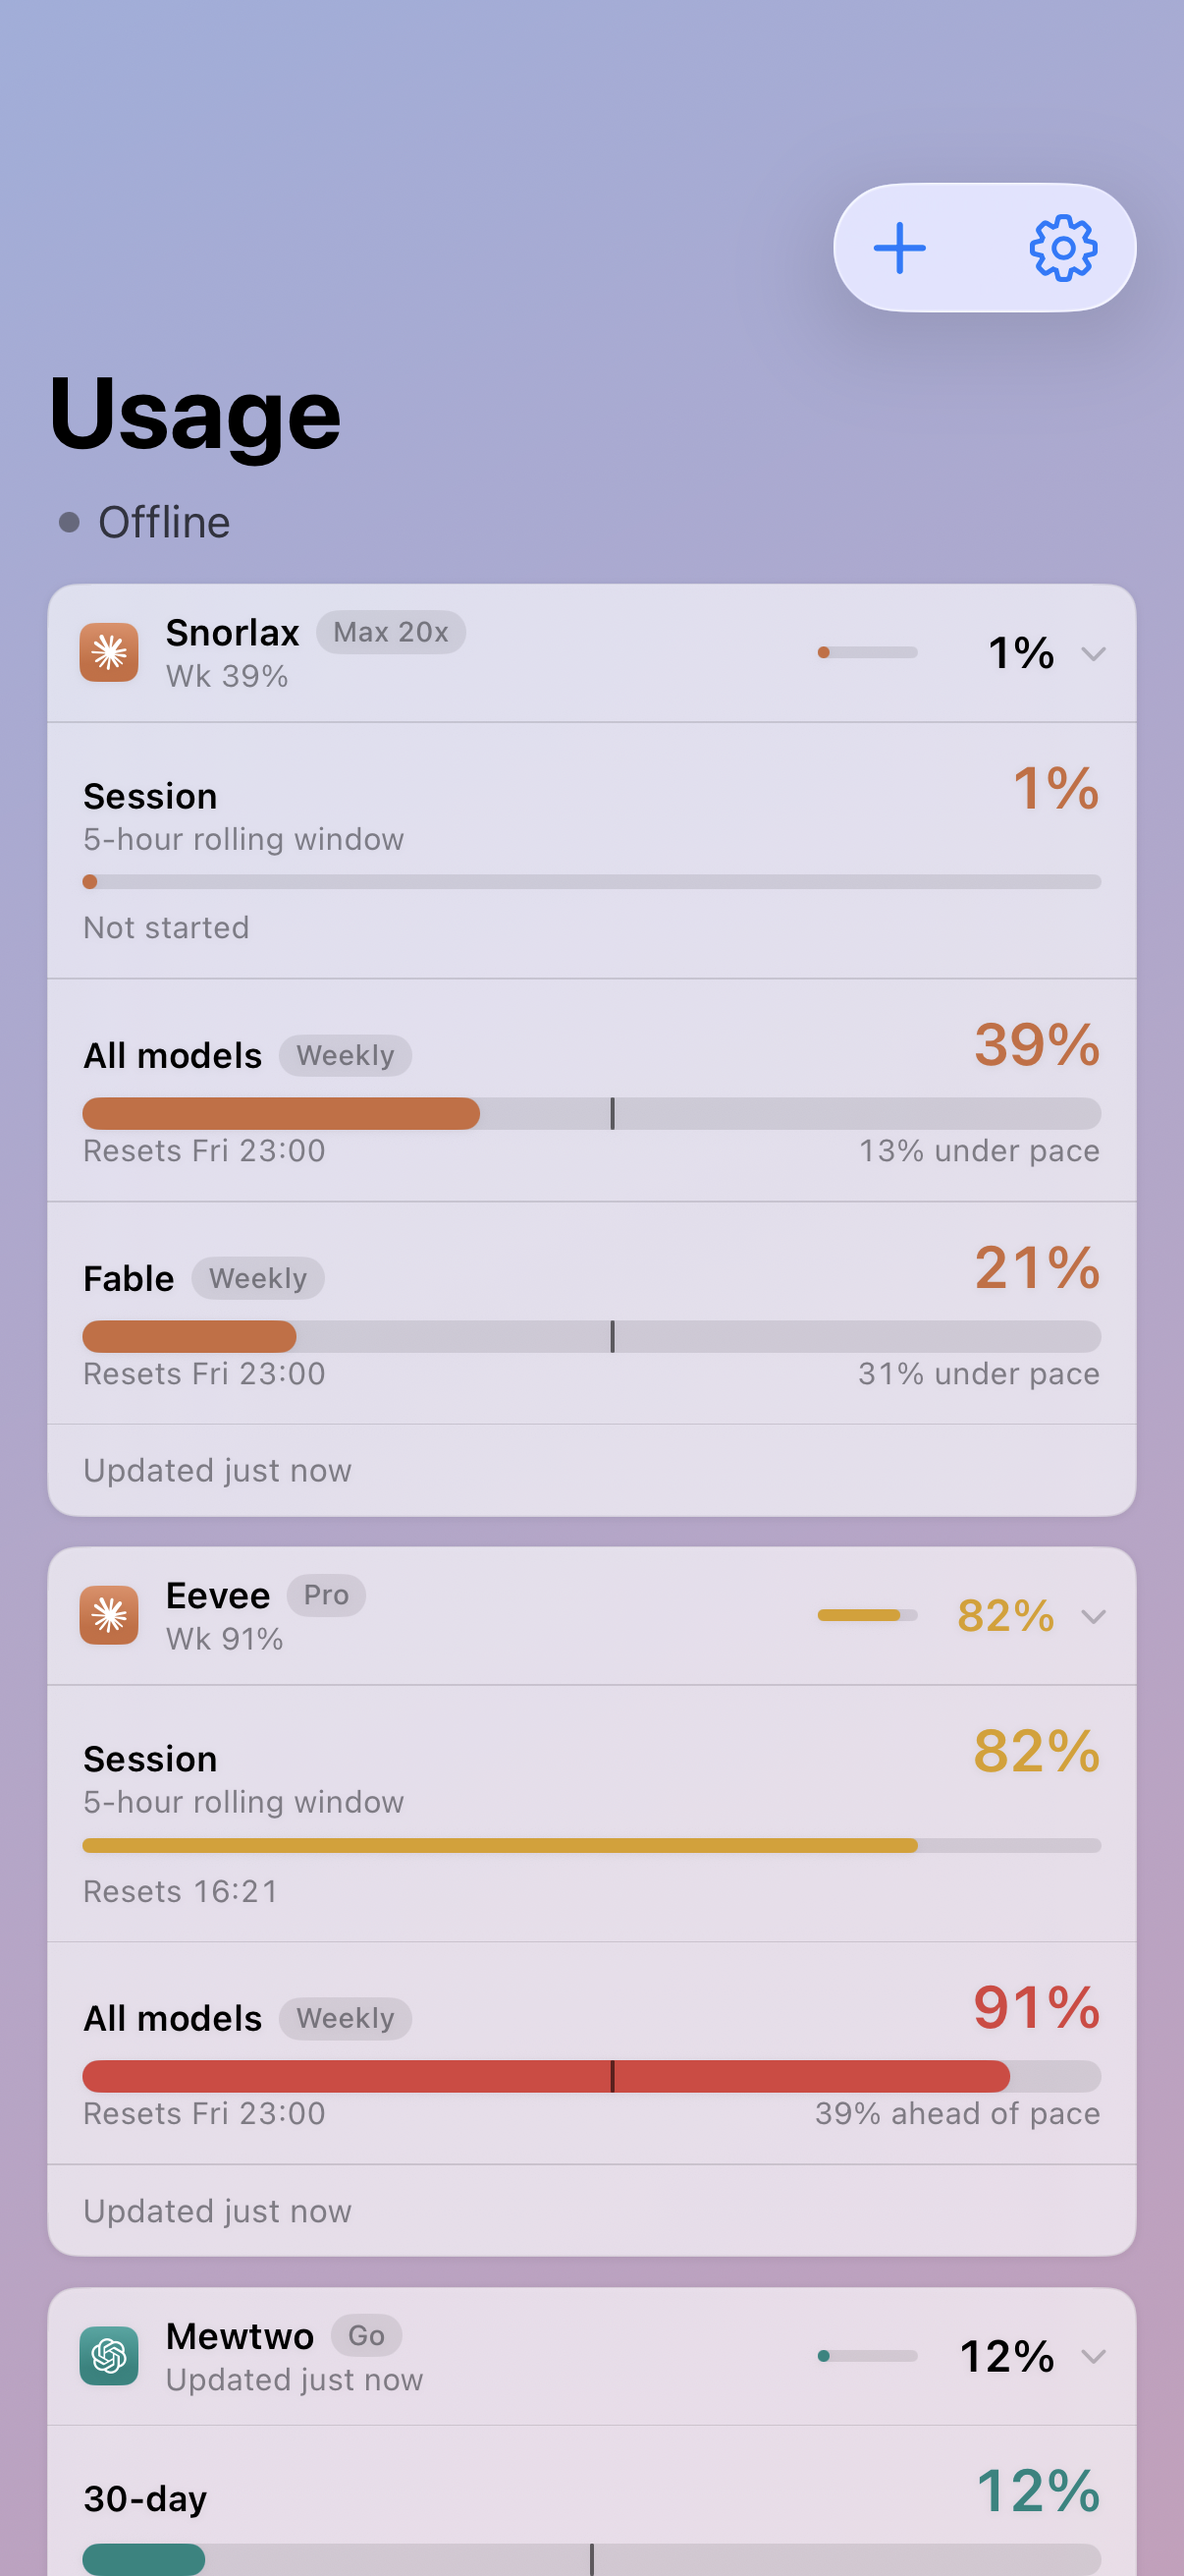
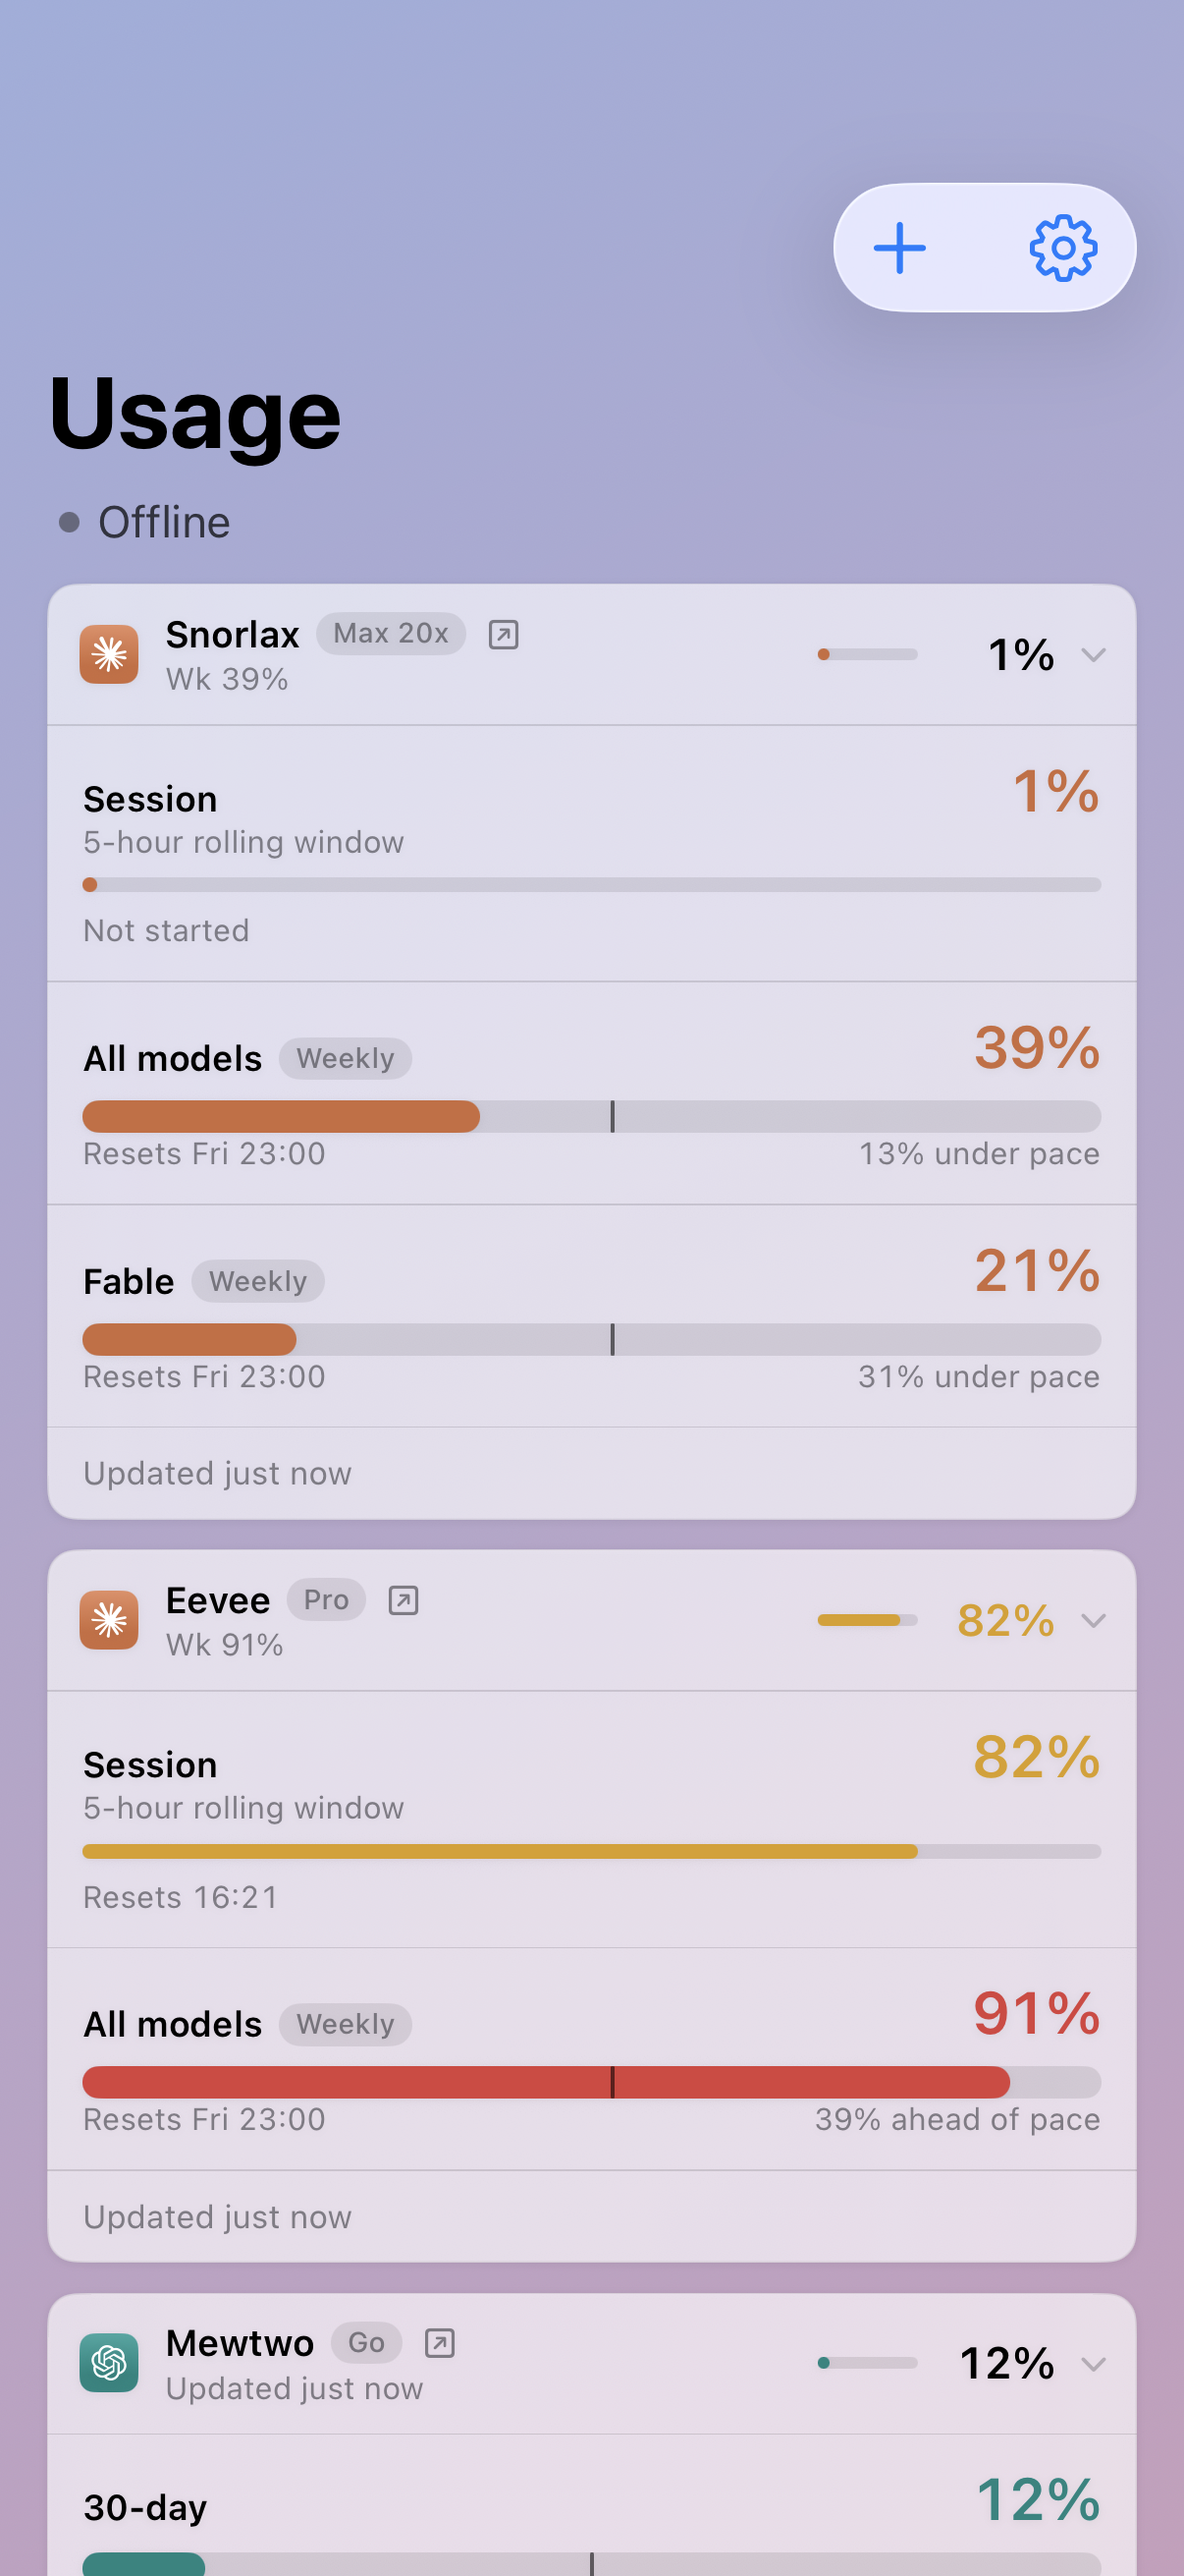
feat(ios): usage page link on account cards

diff --git a/iOS/App/Theme/Glass/GlassAccountCard.swift b/iOS/App/Theme/Glass/GlassAccountCard.swift
@@ -104,12 +104,15 @@ struct GlassAccountCard: View {
             HStack(spacing: 9) {
                 glyph
                 VStack(alignment: .leading, spacing: 1) {
-                    ViewThatFits(in: .horizontal) {
-                        HStack(spacing: 5) {
-                            nameText.fixedSize()
-                            if let plan = c.planTag { StatusChipView(text: plan) }
+                    HStack(spacing: 5) {
+                        ViewThatFits(in: .horizontal) {
+                            HStack(spacing: 5) {
+                                nameText.fixedSize()
+                                if let plan = c.planTag { StatusChipView(text: plan) }
+                            }
+                            nameText
                         }
-                        nameText
+                        UsagePageButton(kind: kind)
                     }
                     Text(c.secondary ?? ageText)
                         .font(.system(size: 10.5))

diff --git a/iOS/App/Theme/Instrument/InstrumentAccountRow.swift b/iOS/App/Theme/Instrument/InstrumentAccountRow.swift
@@ -75,12 +75,15 @@ struct InstrumentAccountRow: View {
         HStack(spacing: 10) {
             RingGauge(fraction: headline?.fraction, label: ringLabel, color: ringColor)
             VStack(alignment: .leading, spacing: 1) {
-                ViewThatFits(in: .horizontal) {
-                    HStack(spacing: 6) {
-                        name.fixedSize()
-                        if let plan = c.planTag { StatusChipView(text: plan) }
+                HStack(spacing: 6) {
+                    ViewThatFits(in: .horizontal) {
+                        HStack(spacing: 6) {
+                            name.fixedSize()
+                            if let plan = c.planTag { StatusChipView(text: plan) }
+                        }
+                        name
                     }
-                    name
+                    UsagePageButton(kind: kind)
                 }
                 Text(subtitle)
                     .font(.system(size: 11).monospacedDigit())

diff --git a/iOS/App/Theme/UsagePageButton.swift b/iOS/App/Theme/UsagePageButton.swift
@@ -1,0 +1,24 @@
+import SwiftUI
+import UsageCore
+
+/// Icon-only link to the provider's usage page in the default browser, next to an account card's title.
+/// Hidden when there is none. The icon stays small; the hit area is padded out to 44pt.
+struct UsagePageButton: View {
+    let kind: ProviderKind
+
+    @Environment(\.openURL) private var openURL
+
+    var body: some View {
+        if let url = kind.usagePageURL {
+            Button { openURL(url) } label: {
+                Image(systemName: "arrow.up.right.square")
+                    .font(.system(size: 11, weight: .medium))
+                    .glassTone()
+                    .frame(width: 16, height: 16)
+                    .contentShape(Rectangle().inset(by: -14))
+            }
+            .buttonStyle(.plain)
+            .accessibilityLabel("Open \(ProviderIcon.label(kind)) usage page")
+        }
+    }
+}
